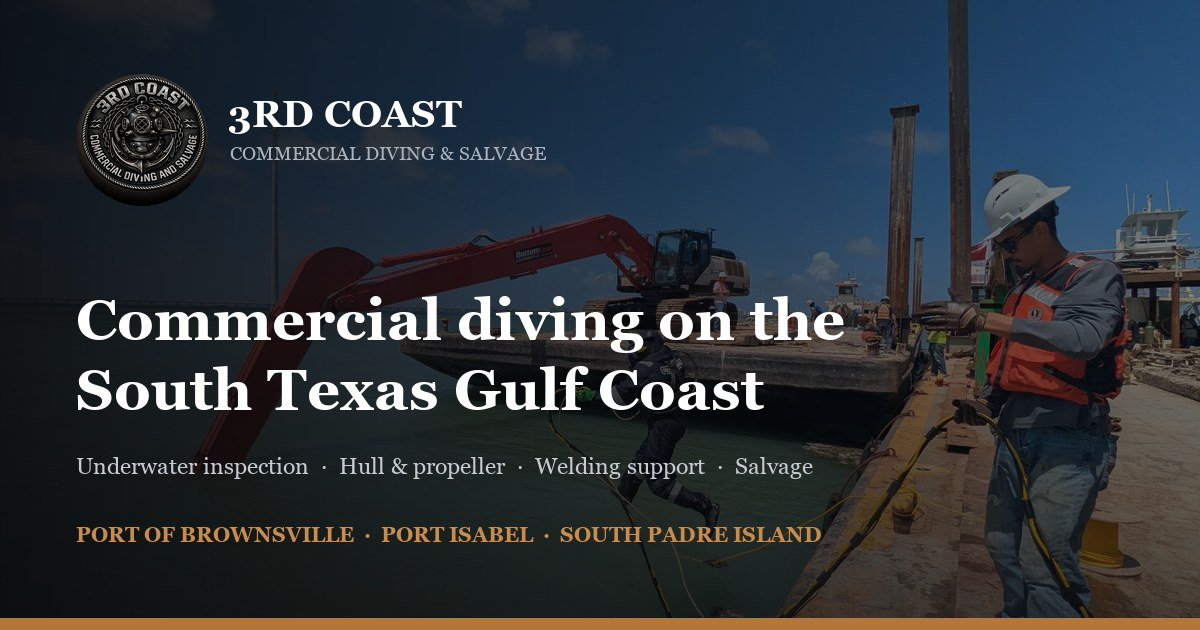
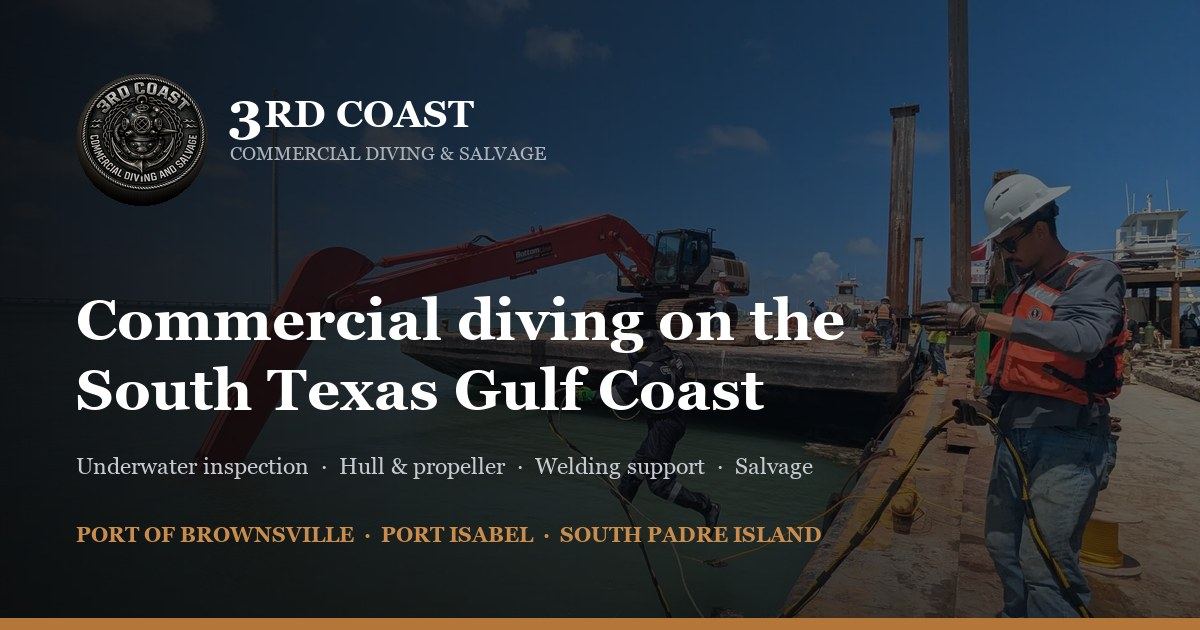
Centre figures, rebuild the footer, and set the wordmark numeral larger
Three fixes from review:

FIGURES centre in their column. Capped at 900px inside a 1240px wrap, they were
flush left and left a lopsided gap down the right.

FOOTER was reserving a fixed 1.4fr/1fr/1fr/1fr grid while three of its four
columns are conditional — "Company" only renders once /about/, /our-standards/
and the rest exist. So an empty fourth column sat there through the whole
build-out and threw the balance off. Now auto-fit: correctly balanced at three
columns today and at five when the full spec lands, with no further edit.
Also added the emblem, split the name into wordmark + spaced sub-line, and put
a rule above the NAP so the identity block reads as one unit.

WORDMARK sets the numeral at 1.48em against the "rd" that follows it, matching
how the emblem itself reads. Both glyphs share a baseline so it reads as a mark
rather than a mistake; line-height:0.7 on the numeral stops the taller glyph
adding leading to its line box. Applied to the header, the footer and the
og:image generator so all three agree.

Changed region(s): [[0.185, 0.1508, 0.4008, 0.2413]]

diff --git a/src/styles/tokens.css b/src/styles/tokens.css
@@ -284,6 +284,27 @@ h4 {
   }
 }
 
+/**
+ * The wordmark. The numeral is set larger than the "rd" it leads, which is how
+ * the emblem itself reads — "3RD COAST" arcs across the badge with the 3 as the
+ * anchor. Because both glyphs share a baseline, enlarging the numeral alone
+ * makes it read as a mark rather than as a typo.
+ */
+.wordmark {
+  display: inline-flex;
+  align-items: baseline;
+  white-space: nowrap;
+}
+
+.wordmark .wm-num {
+  font-size: 1.48em;
+  font-weight: 700;
+  letter-spacing: -0.04em;
+  /* Keeps the taller glyph from adding leading to its line box. */
+  line-height: 0.7;
+  margin-right: 0.02em;
+}
+
 /** Small uppercase sans label. The counterpoint to Georgia. */
 .eyebrow {
   display: inline-block;

diff --git a/scripts/make-social-card.py b/scripts/make-social-card.py
@@ -80,7 +80,13 @@ ImageDraw.Draw(circle).ellipse((0, 0, 131, 131), fill=255)
 card.paste(logo, (76, 74), circle)
 
 # ── Type ─────────────────────────────────────────────────────────────────────
-d.text((228, 92), '3RD COAST', font=load_font(38, True), fill=(255, 255, 255))
+# The numeral is set larger than the letters that follow it, matching the site
+# wordmark and the emblem. Drawn in two runs so the sizes can differ.
+_big = load_font(56, True)
+_small = load_font(38, True)
+d.text((228, 78), '3', font=_big, fill=(255, 255, 255))
+_w = d.textlength('3', font=_big)
+d.text((228 + _w + 1, 92), 'RD COAST', font=_small, fill=(255, 255, 255))
 d.text((230, 142), 'COMMERCIAL DIVING & SALVAGE',
        font=load_font(19), fill=(169, 179, 189))
 
